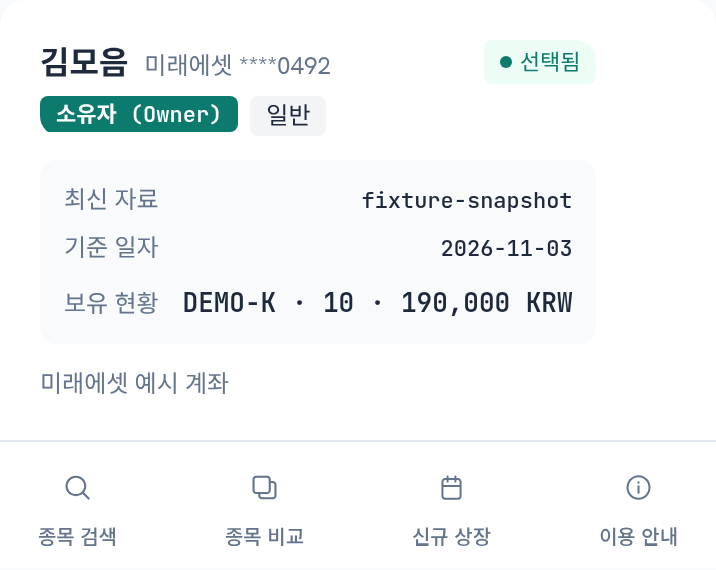
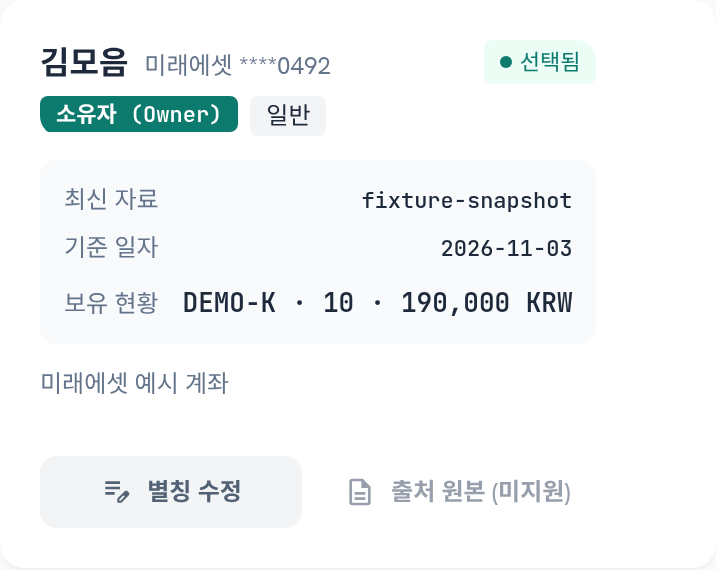
docs: 자산 카드 검수 이미지의 촬영 위치 보정

diff --git a/docs/design/stitch-v3/PHASE81_ACCOUNT_GRID_INSET.md b/docs/design/stitch-v3/PHASE81_ACCOUNT_GRID_INSET.md
@@ -19,4 +19,6 @@
 
 단일 반응형 HTML을4폭에서 측정한 것이며4개의 별도 native 시안을 생성/확정한 것은 아니다. [전후 원자료](evidence/phase81-account-inset/after/geometry.json). baseline 측정 모드의 일반 PASS 출력은 렌더 성공만 뜻한다. 별도로 JSON에서 이름/기관/역할/유형 font·line, 이름 weight, 카드 padding/radius, 도구 높이, snapshot padding과 넘침0을 원본과 대조했다. 전체 원본 PNG/글꼴 일치나 PC 카드의284px 고정 높이 적용 근거로 사용하지 않는다. 이전 독립 원본과 실제 셸 조립의 차이는 이 수정으로 덮어쓰지 않는다.
 
+첫 locator 캡처에서는 고정 하단 메뉴가 Mobile 카드 도구 일부를 가려 검수 이미지로 쓰지 않았다. 카드를 viewport 중앙에 놓고 전후4폭을 다시 촬영했고 원본/앱 geometry JSON의 모든 행은 그대로임을 확인했다. [촬영 조건과 한계](evidence/phase81-account-inset/capture-normalization.json), [같은 합성 자료의 촬영 스크립트](evidence/phase81-account-inset/centered-capture-script.txt). 제품 CSS나 기능은 추가 변경하지 않았다.
+
 타입 포함 [빌드](evidence/phase81-account-inset/build.txt)·[Node819](evidence/phase81-account-inset/node-summary.txt)·[lint오류0/기존경고54](evidence/phase81-account-inset/lint.txt)를 통과했다. 위 측정과 통합 검사는 합성 계좌/메모리 서비스이며 실제 로그인 계좌·고객PDF·운영 DB 쓰기 검증은 수행하지 않았다. 이 문서는 로컬 구현 시점 기록으로 원격 CI·Preview·운영 제공 완료를 주장하지 않는다. 최종 제공은 해당 PR의 후속 운영 근거와 실제 release를 따른다. 시뮬레이터 공개PR 승인 차단은 유지한다.
